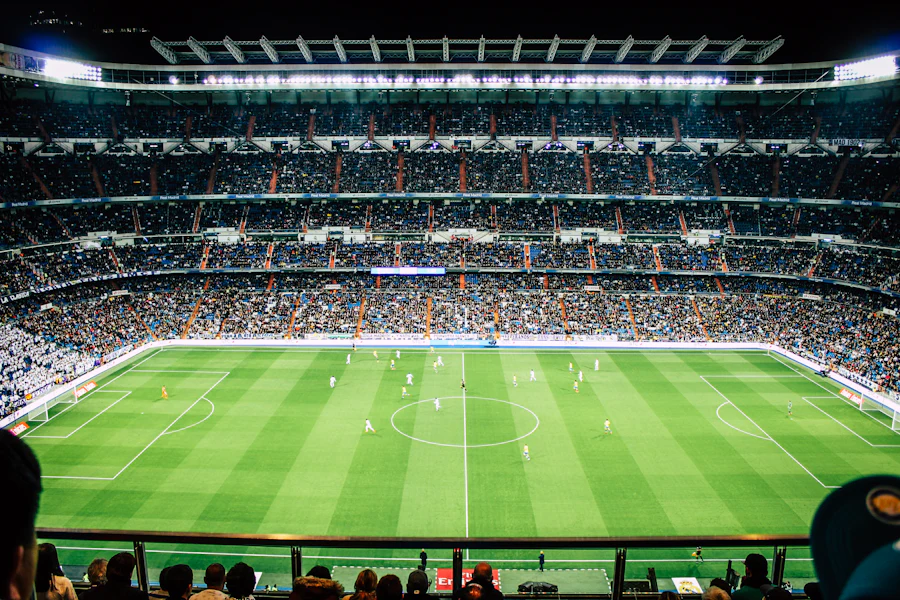
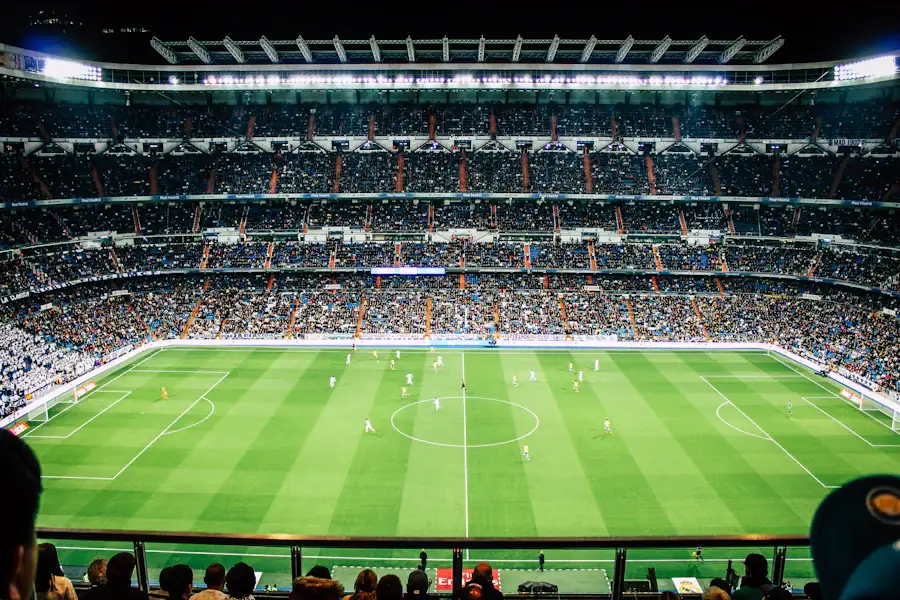
fix(front): follow-ups revue — aria-current, jeton segment, scope=col, JSON malformé, hydratation Reveal/BigNumber, nav mobile, photos hero compressées
- aria-current="page" sur le jour et la compétition sélectionnés (DayPicker, CompetitionFilter) + tests/filters.test.tsx
- #e8e8ed en jeton --color-segment / bg-segment (plus aucune couleur hors jetons)
- scope="col" sur les <th> de track-record et Bankroll
- app/api/session/route.ts : req.json() malformé -> 400 au lieu de crasher
- corrige un avertissement d'hydratation réel (Reveal/BigNumber branchaient sur `typeof window`,
  ce qui divergeait entre le rendu serveur et le premier rendu client) ; état initial toujours
  identique au HTML serveur, l'animation ne démarre que depuis l'effet (jamais de setState
  synchrone dans le corps de l'effet)
- Nav : la ligne de navigation débordait horizontalement en dessous de 430 px (confirmé
  scrollWidth 429 > clientWidth 390 à 390 px) ; défile désormais dans son propre conteneur
  au lieu de déborder la page
- ajoute un h1 manquant sur /track-record (trouvé par tests/a11y.test.tsx)
- photos héros recompressées (1600 px desktop / 900 px mobile, q65) : LCP 3,2 s -> 2,3 s,
  Lighthouse perf 91 -> 97 sur un build de production

diff --git a/frontend/components/Reveal.tsx b/frontend/components/Reveal.tsx
@@ -1,14 +1,25 @@
 "use client";
-import { useEffect, useRef, useState } from "react";
+import { useEffect, useRef } from "react";
 export function Reveal({ children, className = "" }: { children: React.ReactNode; className?: string }) {
   const ref = useRef<HTMLDivElement>(null);
-  const canAnimate = typeof window !== "undefined" && "IntersectionObserver" in window && !window.matchMedia?.("(prefers-reduced-motion: reduce)").matches;
-  const [on, setOn] = useState(!canAnimate);
+  // Le rendu initial (serveur et hydratation client) montre toujours le contenu : brancher sur `typeof
+  // window` ferait diverger le HTML serveur du premier rendu client (avertissement d'hydratation). L'état
+  // masqué-puis-révélé est appliqué directement au DOM depuis l'effet, jamais via setState synchrone dedans.
   useEffect(() => {
-    if (!canAnimate || !ref.current) return;
-    const io = new IntersectionObserver(([e]) => { if (e.isIntersecting) { setOn(true); io.disconnect(); } }, { threshold: 0.15 });
-    io.observe(ref.current);
+    const el = ref.current;
+    if (!el) return;
+    const canAnimate = "IntersectionObserver" in window && !window.matchMedia?.("(prefers-reduced-motion: reduce)").matches;
+    if (!canAnimate) return;
+    el.classList.remove("opacity-100");
+    el.classList.add("opacity-0");
+    const io = new IntersectionObserver(([e]) => {
+      if (!e.isIntersecting) return;
+      el.classList.remove("opacity-0");
+      el.classList.add("opacity-100");
+      io.disconnect();
+    }, { threshold: 0.15 });
+    io.observe(el);
     return () => io.disconnect();
-  }, [canAnimate]);
-  return <div ref={ref} className={`${className} transition-opacity duration-700 ${on ? "opacity-100" : "opacity-0"}`}>{children}</div>;
+  }, []);
+  return <div ref={ref} className={`${className} opacity-100 transition-opacity duration-700`}>{children}</div>;
 }

diff --git a/frontend/components/Nav.tsx b/frontend/components/Nav.tsx
@@ -5,11 +5,11 @@ export async function Nav() {
   const links = [["/matchs", "Matchs"], ["/bookmakers", "Bookmakers"], ["/track-record", "Track record"], ["/tarifs", "Tarifs"]];
   return (
     <header className="bg-black text-paper sticky top-0 z-20">
-      <div className="site flex h-[52px] items-center justify-between border-b border-line-dark">
-        <Link href="/" className="font-tight text-[19px] font-extrabold tracking-[-0.04em]">RushPlay</Link>
-        <nav className="flex items-center gap-5 md:gap-8 text-[12.5px] font-medium text-nav-muted">
-          {links.map(([href, label]) => <Link key={href} href={href} className="hover:text-paper">{label}</Link>)}
-          {user ? <Link href={user.subscription_plan === "STARTER" ? "/compte" : "/carnet"} className="text-paper">{user.first_name}</Link> : <Link href="/connexion" className="text-paper">Se connecter</Link>}
+      <div className="site flex h-[52px] items-center justify-between gap-3 border-b border-line-dark">
+        <Link href="/" className="shrink-0 font-tight text-[19px] font-extrabold tracking-[-0.04em]">RushPlay</Link>
+        <nav className="flex min-w-0 items-center gap-4 overflow-x-auto text-[12.5px] font-medium whitespace-nowrap text-nav-muted [scrollbar-width:none] [-ms-overflow-style:none] [&::-webkit-scrollbar]:hidden md:gap-8">
+          {links.map(([href, label]) => <Link key={href} href={href} className="shrink-0 hover:text-paper">{label}</Link>)}
+          {user ? <Link href={user.subscription_plan === "STARTER" ? "/compte" : "/carnet"} className="shrink-0 text-paper">{user.first_name}</Link> : <Link href="/connexion" className="shrink-0 text-paper">Se connecter</Link>}
         </nav>
       </div>
     </header>

diff --git a/frontend/tests/filters.test.tsx b/frontend/tests/filters.test.tsx
@@ -1,0 +1,31 @@
+import { render, screen } from "@testing-library/react";
+import { describe, expect, it } from "vitest";
+import { DayPicker } from "@/components/DayPicker";
+import { CompetitionFilter } from "@/components/CompetitionFilter";
+import { parisDate } from "@/lib/format";
+
+describe("DayPicker", () => {
+  it("7 jours, date et compétition préservées dans les liens, aria-current sur le jour sélectionné", () => {
+    const today = parisDate();
+    render(<DayPicker selected={today} competition="F1" />);
+    const links = screen.getAllByRole("link");
+    expect(links).toHaveLength(7);
+    links.forEach((l) => expect(l).toHaveAttribute("href", expect.stringContaining("&competition=F1")));
+    const selected = links.find((l) => l.getAttribute("href")?.includes(`date=${today}`));
+    expect(selected).toHaveAttribute("aria-current", "page");
+    links.filter((l) => l !== selected).forEach((l) => expect(l).not.toHaveAttribute("aria-current"));
+  });
+});
+
+describe("CompetitionFilter", () => {
+  it("« Tous » + 6 compétitions, date préservée dans les liens, aria-current sur la compétition sélectionnée", () => {
+    render(<CompetitionFilter date="2026-09-13" selected="F1" />);
+    const links = screen.getAllByRole("link");
+    expect(links).toHaveLength(7);
+    expect(screen.getByText("Tous")).toBeInTheDocument();
+    links.forEach((l) => expect(l).toHaveAttribute("href", expect.stringContaining("date=2026-09-13")));
+    const selected = screen.getByText("Ligue 1").closest("a");
+    expect(selected).toHaveAttribute("aria-current", "page");
+    links.filter((l) => l !== selected).forEach((l) => expect(l).not.toHaveAttribute("aria-current"));
+  });
+});

diff --git a/frontend/components/BigNumber.tsx b/frontend/components/BigNumber.tsx
@@ -3,9 +3,11 @@ import { useEffect, useRef, useState } from "react";
 
 export function BigNumber({ value, suffix, className = "" }: { value: number; suffix?: string; className?: string }) {
   const ref = useRef<HTMLSpanElement>(null);
-  const canAnimate = typeof window !== "undefined" && "IntersectionObserver" in window && !window.matchMedia?.("(prefers-reduced-motion: reduce)").matches;
-  const [shown, setShown] = useState(canAnimate ? 0 : value);
+  // Le rendu initial (serveur et hydratation client) affiche toujours `value` : brancher sur
+  // `typeof window` ferait diverger le HTML serveur du premier rendu client (avertissement d'hydratation).
+  const [shown, setShown] = useState(value);
   useEffect(() => {
+    const canAnimate = "IntersectionObserver" in window && !window.matchMedia?.("(prefers-reduced-motion: reduce)").matches;
     if (!canAnimate || !ref.current) return;
     const el = ref.current;
     const io = new IntersectionObserver(([e]) => {
@@ -21,7 +23,7 @@ export function BigNumber({ value, suffix, className = "" }: { value: number; su
     }, { threshold: 0.4 });
     io.observe(el);
     return () => io.disconnect();
-  }, [canAnimate, value]);
+  }, [value]);
   return (
     <span ref={ref} className={className} aria-label={`${value}${suffix ?? ""}`}>
       <span>{shown}</span>{suffix ? <sup className="align-top text-[0.28em] font-bold tracking-[-0.02em] relative top-[0.3em] ml-[0.02em]">{suffix}</sup> : null}

diff --git a/frontend/components/Bankroll.tsx b/frontend/components/Bankroll.tsx
@@ -40,7 +40,7 @@ export function Bankroll({ token, preselected }: { token: string; preselected?: 
       {actionError && <p role="alert" className="mt-6 text-[14px] font-medium">{actionError}</p>}
       {data.items.length === 0 ? <p className="hair mt-10 py-8 text-[19px]">Aucun pari noté. Le premier est en bas de page.</p> : (
         <table className="mt-12 w-full border-collapse text-[15px]">
-          <thead><tr>{["Match", "Pari", "Bookmaker", "Cote", "Mise", "Gain", "Statut", ""].map((h, i) => <th key={h + i} className={`border-b border-ink pb-3 text-[12px] font-semibold uppercase tracking-[0.06em] text-muted ${i >= 3 ? "text-right" : "text-left"}`}>{h}</th>)}</tr></thead>
+          <thead><tr>{["Match", "Pari", "Bookmaker", "Cote", "Mise", "Gain", "Statut", ""].map((h, i) => <th key={h + i} scope="col" className={`border-b border-ink pb-3 text-[12px] font-semibold uppercase tracking-[0.06em] text-muted ${i >= 3 ? "text-right" : "text-left"}`}>{h}</th>)}</tr></thead>
           <tbody>{data.items.map((b) => (
             <tr key={b.id}>
               <td className="border-b border-line py-4 font-semibold">{b.home_team} – {b.away_team}<span className="block text-[13px] font-normal text-muted">{formatDateFr(b.kickoff_at)}</span></td>

diff --git a/frontend/components/DayPicker.tsx b/frontend/components/DayPicker.tsx
@@ -3,9 +3,9 @@ import { formatDayShort, parisDate } from "@/lib/format";
 export function DayPicker({ selected, competition }: { selected: string; competition?: string }) {
   const days = Array.from({ length: 7 }, (_, i) => { const d = new Date(); d.setDate(d.getDate() + i); return parisDate(d); });
   return (
-    <div className="flex rounded-[10px] bg-[#e8e8ed] p-[3px]">
+    <div className="flex rounded-[10px] bg-segment p-[3px]">
       {days.map((d) => (
-        <Link key={d} href={`/matchs?date=${d}${competition ? `&competition=${competition}` : ""}`} className={`flex-1 rounded-lg py-1.5 text-center text-[12px] font-semibold capitalize ${d === selected ? "bg-paper text-ink shadow-sm" : "text-muted"}`}>{formatDayShort(`${d}T12:00:00Z`)}</Link>
+        <Link key={d} href={`/matchs?date=${d}${competition ? `&competition=${competition}` : ""}`} aria-current={d === selected ? "page" : undefined} className={`flex-1 rounded-lg py-1.5 text-center text-[12px] font-semibold capitalize ${d === selected ? "bg-paper text-ink shadow-sm" : "text-muted"}`}>{formatDayShort(`${d}T12:00:00Z`)}</Link>
       ))}
     </div>
   );

diff --git a/frontend/components/CompetitionFilter.tsx b/frontend/components/CompetitionFilter.tsx
@@ -5,7 +5,7 @@ export function CompetitionFilter({ date, selected }: { date: string; selected?:
   return (
     <div className="flex gap-2 overflow-x-auto py-3">
       {all.map(([code, label]) => (
-        <Link key={code} href={`/matchs?date=${date}${code ? `&competition=${code}` : ""}`} className={`flex-none rounded-full px-3 py-1.5 text-[12px] font-semibold ${(selected ?? "") === code ? "bg-ink text-paper" : "bg-paper text-ink"}`}>{label}</Link>
+        <Link key={code} href={`/matchs?date=${date}${code ? `&competition=${code}` : ""}`} aria-current={(selected ?? "") === code ? "page" : undefined} className={`flex-none rounded-full px-3 py-1.5 text-[12px] font-semibold ${(selected ?? "") === code ? "bg-ink text-paper" : "bg-paper text-ink"}`}>{label}</Link>
       ))}
     </div>
   );

diff --git a/frontend/app/api/session/route.ts b/frontend/app/api/session/route.ts
@@ -2,7 +2,10 @@ import { cookies } from "next/headers";
 import { NextResponse } from "next/server";
 const NAME = "rp_token";
 export async function POST(req: Request) {
-  const { token } = (await req.json()) as { token?: string };
+  let body: { token?: string };
+  try { body = (await req.json()) as { token?: string }; }
+  catch { return NextResponse.json({ ok: false }, { status: 400 }); }
+  const { token } = body;
   if (!token || typeof token !== "string") return NextResponse.json({ ok: false }, { status: 400 });
   (await cookies()).set(NAME, token, { httpOnly: true, sameSite: "lax", secure: process.env.NODE_ENV === "production", path: "/", maxAge: 60 * 60 * 24 * 7 });
   return NextResponse.json({ ok: true });

diff --git a/frontend/app/globals.css b/frontend/app/globals.css
@@ -14,6 +14,7 @@
   --color-track: #e5e5ea;
   --color-track-dark: #3a3a3c;
   --color-nav-muted: #c7c7cc;
+  --color-segment: #e8e8ed;
   --font-sans: var(--font-inter), system-ui, sans-serif;
   --font-tight: var(--font-inter-tight), var(--font-inter), system-ui, sans-serif;
   --container-site: 1180px;
